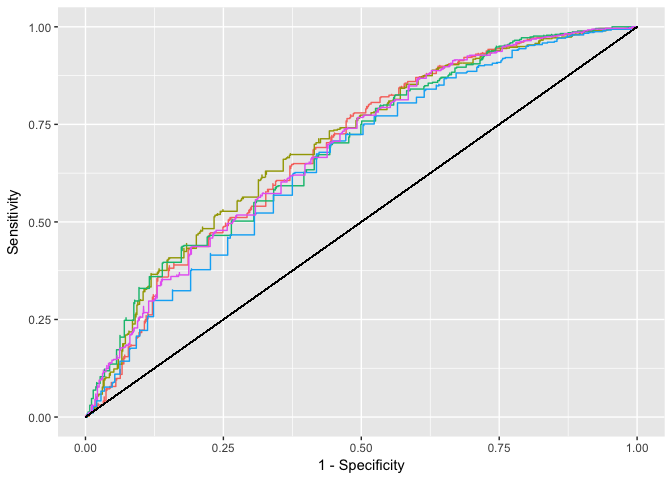
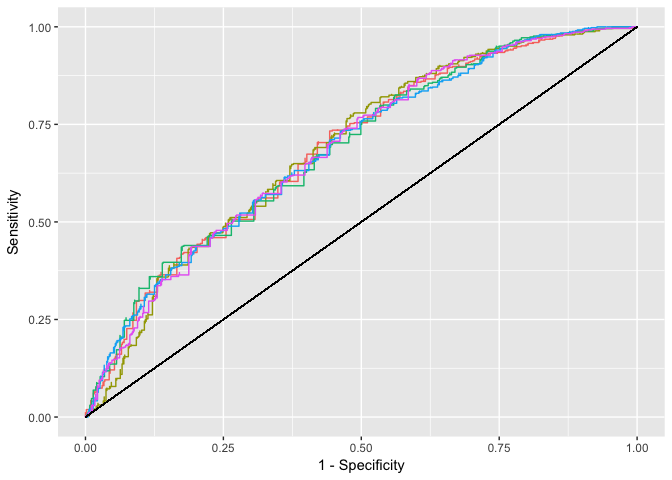
link to coefficient files

Changed region(s): [[0.125, 0.0312, 0.9375, 0.875]]

diff --git a/README.md b/README.md
@@ -29,7 +29,7 @@ See the file [all\_coefs.md](all_coefs.md) or [all\_coefs.csv](inst/extdata/all_
 
 ### Reproduce analysis
 
-View the `README.Rmd` file that produces the output below.
+View the `README.Rmd` file that produces the output below. Note that the output below is derived from the synthetic data and 10 Bootstrap samples only, hence the signal is weaker accordingly.
 
 ### Calculating AUC
 
